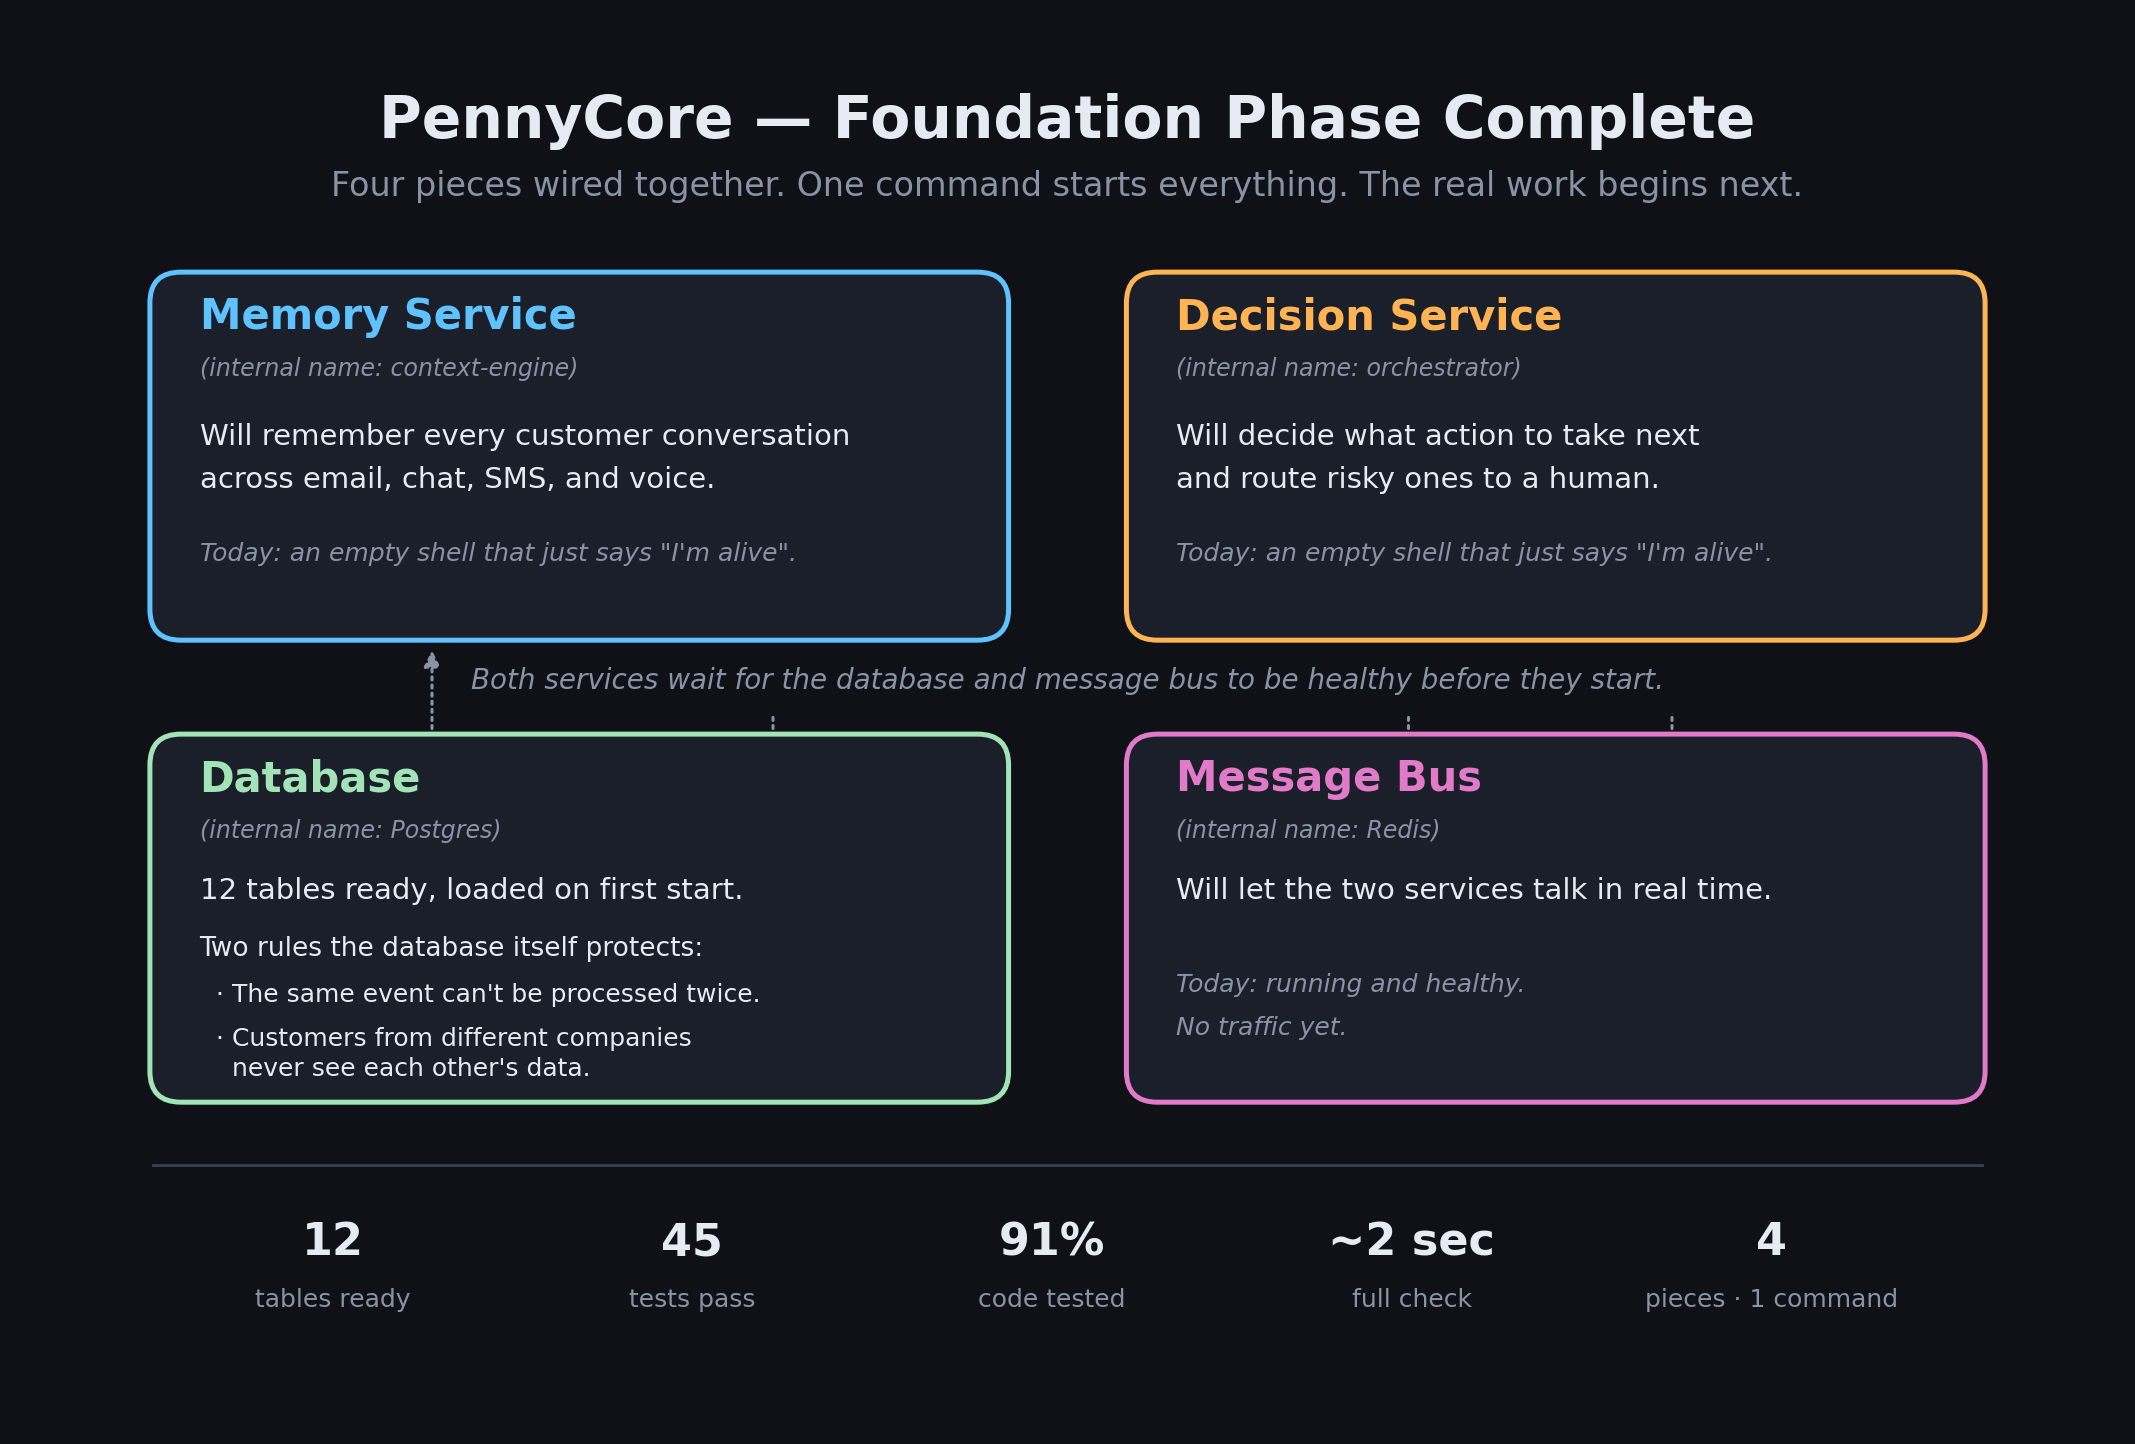
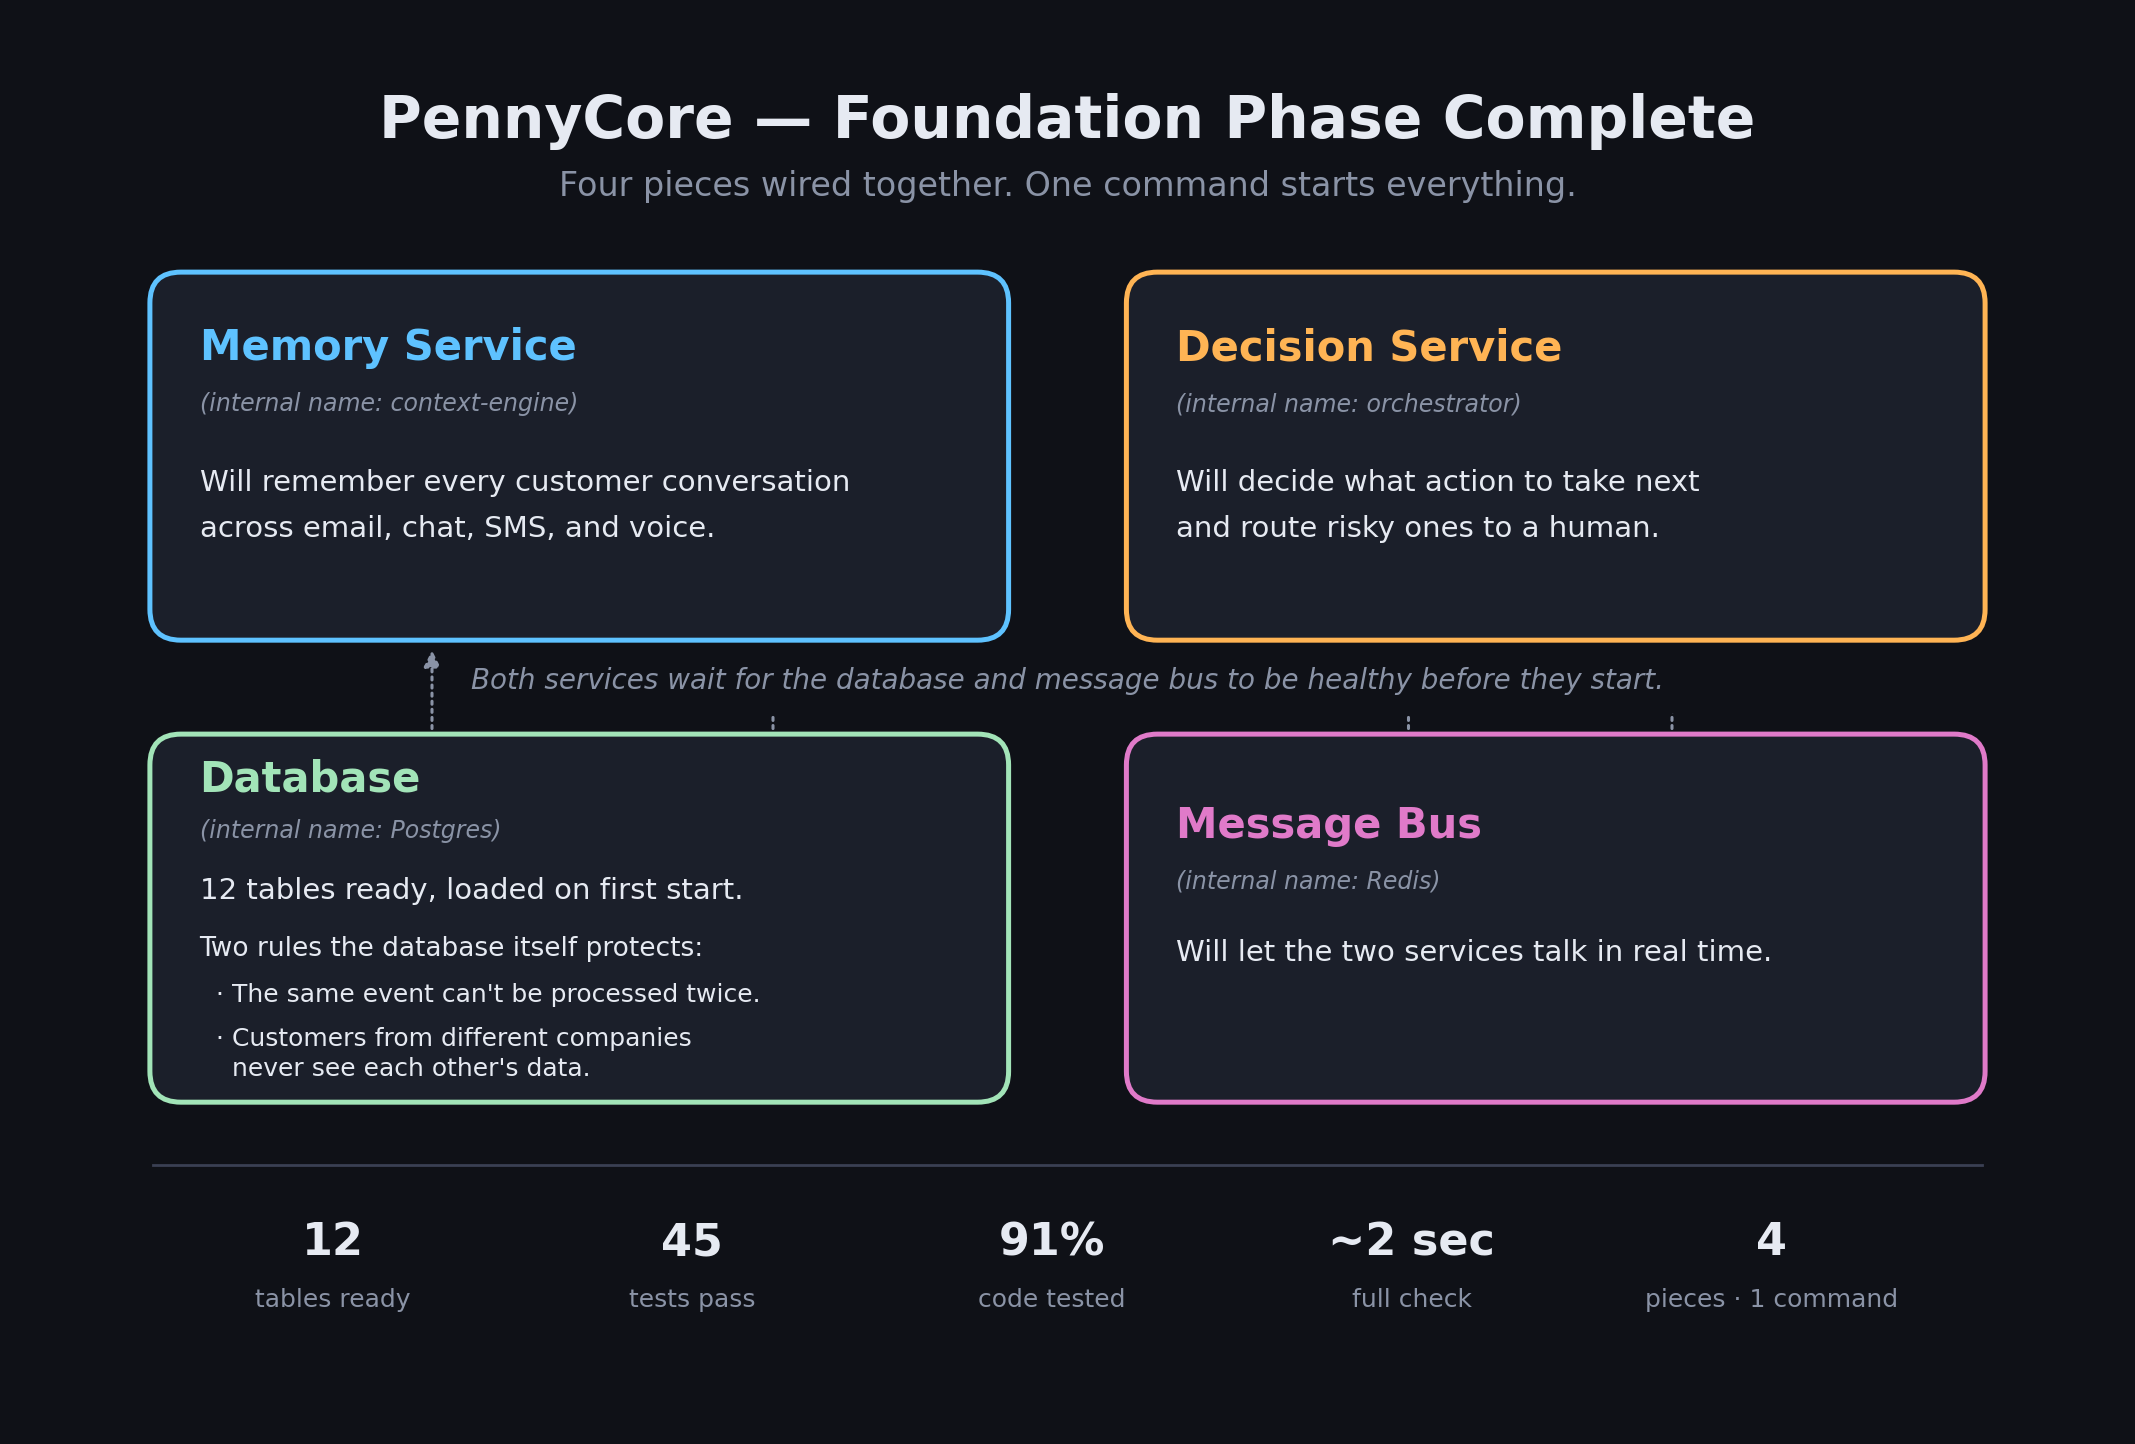
rest files

diff --git a/scripts/render_phase1_diagram.py b/scripts/render_phase1_diagram.py
@@ -7,16 +7,15 @@ STRICT RULES for this diagram:
    Technical names (context-engine, orchestrator, Postgres, Redis) appear
    only as small subtitles under the plain-English label.
 
-What exists in Phase 1:
-- 4 containers running as scaffolds (postgres, redis, context-engine, orchestrator)
-- The two web services boot and answer "I'm alive" / "I'm ready" health pings
+What exists at the end of the foundation phase:
+- 4 containers wired together (postgres, redis, context-engine, orchestrator)
 - The database has 12 tables auto-loaded on first start
 - Three rules the database itself protects:
     - the same event cannot be processed twice
     - customers from different companies never see each other's data
     - removing a customer also removes their messages (no orphan rows)
 - A 2-second quality check runs every commit (45 automated checks pass)
-- Healthcheck-gated startup: services wait for db + bus before they start
+- Services wait for db + bus to be healthy before they start
 
 Output: results/samples/day04_phase1_architecture.png
 """
@@ -71,26 +70,24 @@ ax.text(
 )
 ax.text(
     6.5, 7.78,
-    "Four pieces wired together. One command starts everything. The real work begins next.",
+    "Four pieces wired together. One command starts everything.",
     color=MUTED, fontsize=12, ha="center", va="center", family="DejaVu Sans",
 )
 
 # ---- service cards (top row) — plain-English labels -----------------------
 # Memory service
 card(0.6, 4.85, 5.5, 2.35, ACCENT)
-ax.text(0.90, 6.85, "Memory Service", color=ACCENT, fontsize=15, fontweight="bold")
-ax.text(0.90, 6.55, "(internal name: context-engine)", color=MUTED, fontsize=8.5, style="italic")
-ax.text(0.90, 6.10, "Will remember every customer conversation", color=TEXT, fontsize=10.5)
-ax.text(0.90, 5.82, "across email, chat, SMS, and voice.", color=TEXT, fontsize=10.5)
-ax.text(0.90, 5.35, 'Today: an empty shell that just says "I\'m alive".', color=MUTED, fontsize=9, style="italic")
+ax.text(0.90, 6.65, "Memory Service", color=ACCENT, fontsize=15, fontweight="bold")
+ax.text(0.90, 6.32, "(internal name: context-engine)", color=MUTED, fontsize=8.5, style="italic")
+ax.text(0.90, 5.80, "Will remember every customer conversation", color=TEXT, fontsize=10.5)
+ax.text(0.90, 5.50, "across email, chat, SMS, and voice.", color=TEXT, fontsize=10.5)
 
 # Decision service
 card(6.9, 4.85, 5.5, 2.35, ACCENT_2)
-ax.text(7.20, 6.85, "Decision Service", color=ACCENT_2, fontsize=15, fontweight="bold")
-ax.text(7.20, 6.55, "(internal name: orchestrator)", color=MUTED, fontsize=8.5, style="italic")
-ax.text(7.20, 6.10, "Will decide what action to take next", color=TEXT, fontsize=10.5)
-ax.text(7.20, 5.82, "and route risky ones to a human.", color=TEXT, fontsize=10.5)
-ax.text(7.20, 5.35, 'Today: an empty shell that just says "I\'m alive".', color=MUTED, fontsize=9, style="italic")
+ax.text(7.20, 6.65, "Decision Service", color=ACCENT_2, fontsize=15, fontweight="bold")
+ax.text(7.20, 6.32, "(internal name: orchestrator)", color=MUTED, fontsize=8.5, style="italic")
+ax.text(7.20, 5.80, "Will decide what action to take next", color=TEXT, fontsize=10.5)
+ax.text(7.20, 5.50, "and route risky ones to a human.", color=TEXT, fontsize=10.5)
 
 # ---- data layer (bottom row) ----------------------------------------------
 # Database
@@ -105,11 +102,9 @@ ax.text(0.90, 2.00, "    never see each other's data.", color=TEXT, fontsize=9)
 
 # Message bus
 card(6.9, 1.85, 5.5, 2.35, BUS)
-ax.text(7.20, 3.85, "Message Bus", color=BUS, fontsize=15, fontweight="bold")
-ax.text(7.20, 3.55, "(internal name: Redis)", color=MUTED, fontsize=8.5, style="italic")
-ax.text(7.20, 3.15, "Will let the two services talk in real time.", color=TEXT, fontsize=10.5)
-ax.text(7.20, 2.55, "Today: running and healthy.", color=MUTED, fontsize=9, style="italic")
-ax.text(7.20, 2.27, "No traffic yet.", color=MUTED, fontsize=9, style="italic")
+ax.text(7.20, 3.55, "Message Bus", color=BUS, fontsize=15, fontweight="bold")
+ax.text(7.20, 3.22, "(internal name: Redis)", color=MUTED, fontsize=8.5, style="italic")
+ax.text(7.20, 2.75, "Will let the two services talk in real time.", color=TEXT, fontsize=10.5)
 
 # ---- arrows: the only real wiring in Phase 1 (startup ordering) -----------
 # Short, clean dotted arrows from each db-layer card up to the service above it.
